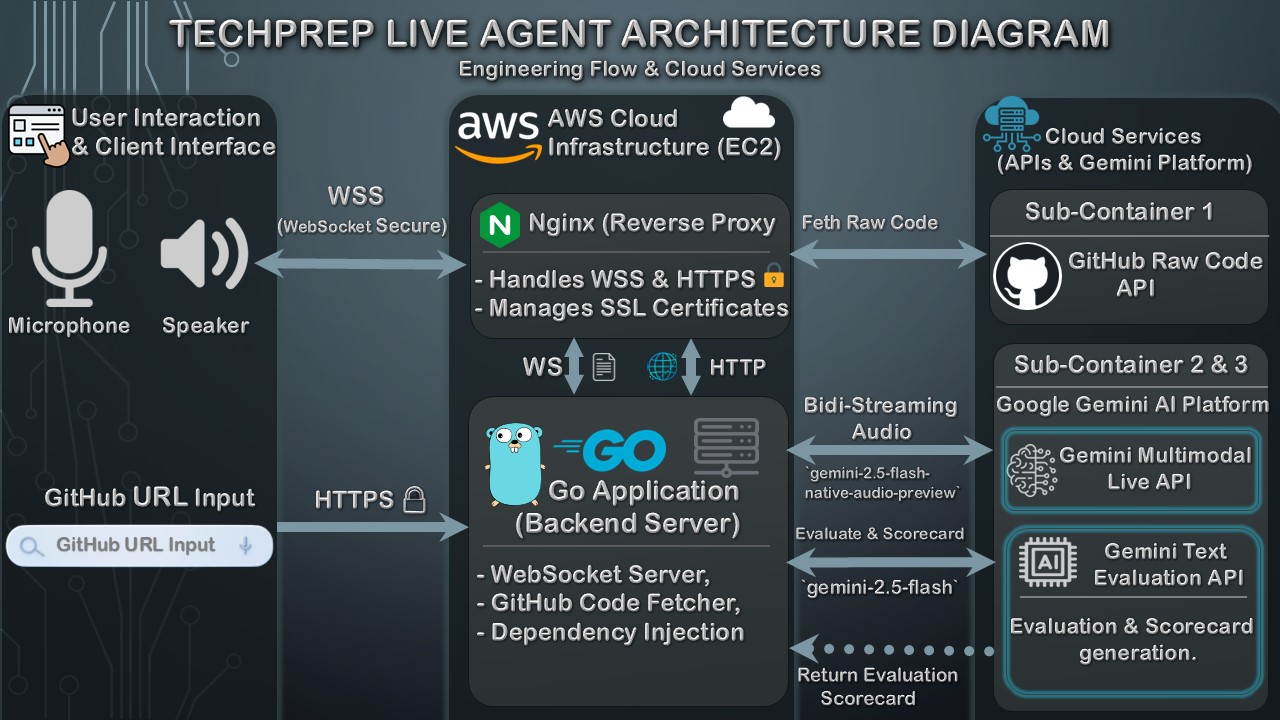
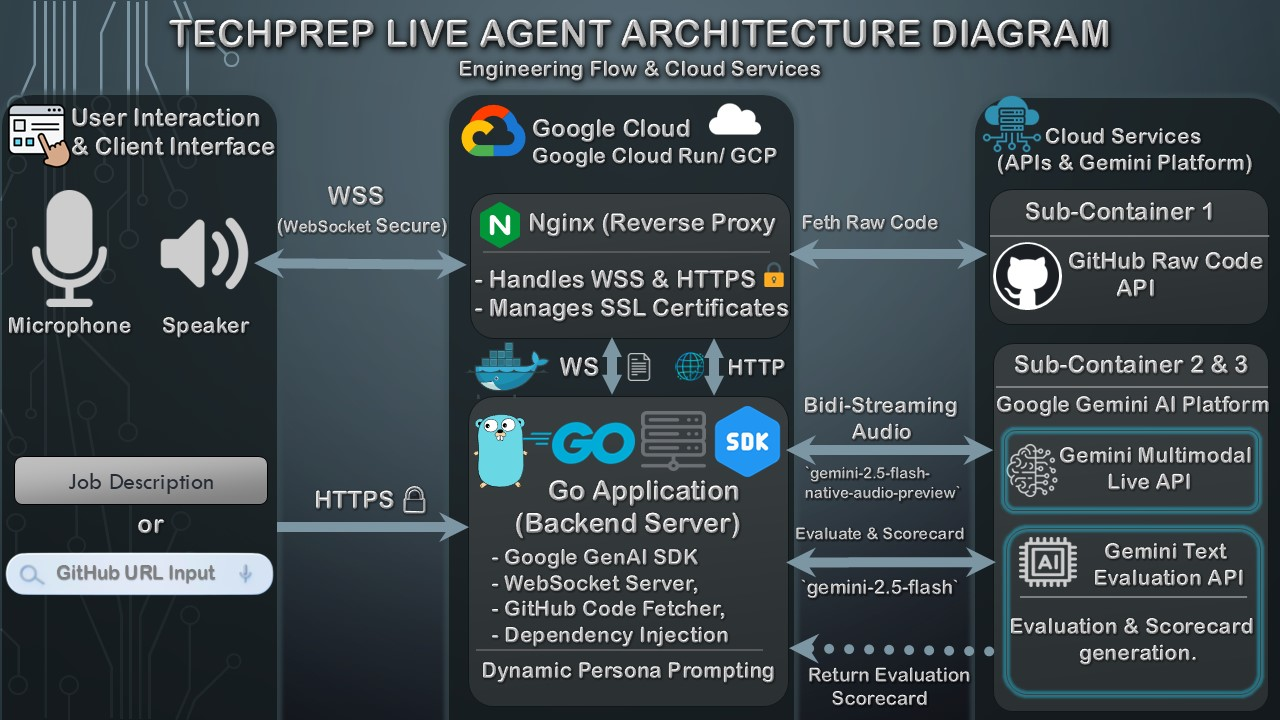
feat: integrate official Google GenAI SDK and update Gemini live model

diff --git a/internal/server/api_handler.go b/internal/server/api_handler.go
@@ -1,7 +1,6 @@
 package server
 
 import (
-	"bytes"
 	"context"
 	"encoding/json"
 	"fmt"
@@ -14,6 +13,9 @@ import (
 	"strings"
 	"sync"
 	"time"
+
+	"github.com/google/generative-ai-go/genai"
+	"google.golang.org/api/option"
 )
 
 type CodeFetcher interface {
@@ -78,11 +80,24 @@ func (h *APIHandler) HandleEvaluate(w http.ResponseWriter, r *http.Request) {
 	var req struct {
 		CodeContext string `json:"code_context"`
 	}
-	json.NewDecoder(r.Body).Decode(&req)
+	if err := json.NewDecoder(r.Body).Decode(&req); err != nil {
+		http.Error(w, "Invalid request", http.StatusBadRequest)
+		return
+	}
 
-	// Use the stable 2.5 text model
-	geminiURL := fmt.Sprintf("https://generativelanguage.googleapis.com/v1beta/models/gemini-2.5-flash:generateContent?key=%s", h.APIKey)
-
+	// ────────────────────────────────────────────────
+	//               Use Google GenAI SDK
+	// ────────────────────────────────────────────────
+	ctx := context.Background()
+	client, err := genai.NewClient(ctx, option.WithAPIKey(h.APIKey))
+	if err != nil {
+		log.Printf("Failed to create genai client: %v", err)
+		w.Header().Set("Content-Type", "application/json")
+		json.NewEncoder(w).Encode(map[string]string{"evaluation": "Failed to initialize AI service."})
+		return
+	}
+	defer client.Close()
+	model := client.GenerativeModel("gemini-2.5-flash")
 	prompt := fmt.Sprintf(`You are an expert Backend Tech Lead. Evaluate the following code and provide a scorecard. 
 	Format as cleanly separated plain text (No Markdown bolding).
 	Include: 
@@ -92,60 +107,31 @@ func (h *APIHandler) HandleEvaluate(w http.ResponseWriter, r *http.Request) {
 	
 	Code context: %s`, req.CodeContext)
 
-	payload := map[string]interface{}{
-		"contents": []map[string]interface{}{
-			{"parts": []map[string]string{{"text": prompt}}},
-		},
-	}
-	jsonData, _ := json.Marshal(payload)
-
-	resp, err := http.Post(geminiURL, "application/json", bytes.NewBuffer(jsonData))
+	resp, err := model.GenerateContent(ctx, genai.Text(prompt))
 	if err != nil {
-		log.Printf(" Failed to reach Gemini API: %v", err)
+		log.Printf("Failed to reach Gemini API: %v", err)
 		w.Header().Set("Content-Type", "application/json")
 		json.NewEncoder(w).Encode(map[string]string{"evaluation": "Failed to connect to AI server."})
 		return
 	}
-	defer resp.Body.Close()
 
-	bodyBytes, _ := io.ReadAll(resp.Body)
-
-	// If Google rejects the request for any reason, we will print the reason in the Terminal so we know it
-	if resp.StatusCode != http.StatusOK {
-		log.Printf(" Gemini API Error: %s", string(bodyBytes))
-		w.Header().Set("Content-Type", "application/json")
-		json.NewEncoder(w).Encode(map[string]string{"evaluation": "AI Evaluation failed. Please check the terminal logs for details."})
-		return
+	// Extract text in a safe and modern way
+	var evaluation string
+	if len(resp.Candidates) > 0 {
+		for _, part := range resp.Candidates[0].Content.Parts {
+			if t, ok := part.(genai.Text); ok {
+				evaluation += string(t)
+			}
+		}
 	}
 
-	// Read JSON in a structurally safe way to prevent Panics
-	type GeminiResponse struct {
-		Candidates []struct {
-			Content struct {
-				Parts []struct {
-					Text string `json:"text"`
-				} `json:"parts"`
-			} `json:"content"`
-		} `json:"candidates"`
+	// fallback if the response is empty
+	if evaluation == "" {
+		evaluation = "AI returned an empty evaluation."
 	}
 
-	var result GeminiResponse
-	if err := json.Unmarshal(bodyBytes, &result); err != nil {
-		log.Printf(" Error parsing JSON: %v", err)
-		w.Header().Set("Content-Type", "application/json")
-		json.NewEncoder(w).Encode(map[string]string{"evaluation": "Could not parse evaluation format."})
-		return
-	}
-
-	// Extract the text and send it to the browser
-	if len(result.Candidates) > 0 && len(result.Candidates[0].Content.Parts) > 0 {
-		evaluationText := result.Candidates[0].Content.Parts[0].Text
-		w.Header().Set("Content-Type", "application/json")
-		json.NewEncoder(w).Encode(map[string]string{"evaluation": evaluationText})
-	} else {
-		w.Header().Set("Content-Type", "application/json")
-		json.NewEncoder(w).Encode(map[string]string{"evaluation": "AI returned an empty evaluation."})
-	}
+	w.Header().Set("Content-Type", "application/json")
+	json.NewEncoder(w).Encode(map[string]string{"evaluation": evaluation})
 }
 
 // VERSION 2: Full Repository Analysis OR Single File (Smart Fetch)

diff --git a/internal/agent/gemini.go b/internal/agent/gemini.go
@@ -93,7 +93,7 @@ func (g *GeminiAgent) InitializeSession(personaType string) error {
 	// Here the model name has been completely corrected
 	setupJSON := []byte(fmt.Sprintf(`{
 		"setup": {
-			"model": "models/gemini-2.5-flash-native-audio-preview-09-2025",
+			"model": "models/gemini-2.5-flash-native-audio-preview-12-2025",
 			"generationConfig": {"responseModalities": ["AUDIO"]},
 			"systemInstruction": {"parts": [{"text": %q}]}
 		}

diff --git a/README.md b/README.md
@@ -20,12 +20,16 @@ TechPrep Live Agent is a real-time, voice-first AI companion built with Go and t
 ## 🏗 Architecture
 * **Backend:** Go (Golang), Gorilla WebSockets.
 * **Frontend:** Vanilla JavaScript, Web Audio API, HTML5, CSS3.
-* **Infrastructure:** Docker, Docker Compose, Nginx, AWS EC2, GitHub Actions (CI/CD).
-* **AI Models:** Google Gemini Multimodal Live API (Audio) & Gemini 2.5 Flash API (Text).
+* **Infrastructure:** Docker, Docker Compose, Nginx, **Google Cloud Platform (GCP - Compute Engine)**, GitHub Actions (CI/CD).
 
-![TechPrep Architecture](assets/TechPrep_Diagram.jpg)
+### AI Integration:
+This dual-model approach leverages the strengths of the stable Gemini 2.5 Flash for reliable text-based analysis and the latest native audio preview for seamless, emotionally aware voice interactions.
+- **Scorecard / Text Evaluation**: Built using the official **Google GenAI SDK for Go** with the stable model **`gemini-2.5-flash`** (for secure, high-quality code analysis and feedback generation).
+- **Real-time Voice Conversation (Gemini Live)**: Powered by the **Gemini Live API** (bidirectional WebSocket) using the latest supported native audio preview model **`gemini-2.5-flash-native-audio-preview-12-2025`** (for ultra-low latency audio streaming, emotional tone, and natural conversation flow).
 
-*(Note: The diagram above illustrates the core routing architecture. The final deployed version has been upgraded to utilize `models/gemini-2.0-flash-exp` for enhanced stability, and includes an internal execution Sandbox connected to the Go Application for secure, real-time code execution).*
+![TechPrep Architecture](assets/TechPrep_diagram.jpg)
+
+*(Note: The diagram above illustrates the core routing architecture. The final deployed version has been upgraded to utilize `models/gemini-2.5-flash` for enhanced stability, uses the official GenAI SDK, and includes an internal execution Sandbox connected to the Go Application for secure, real-time code execution).*
 
 ---
 
